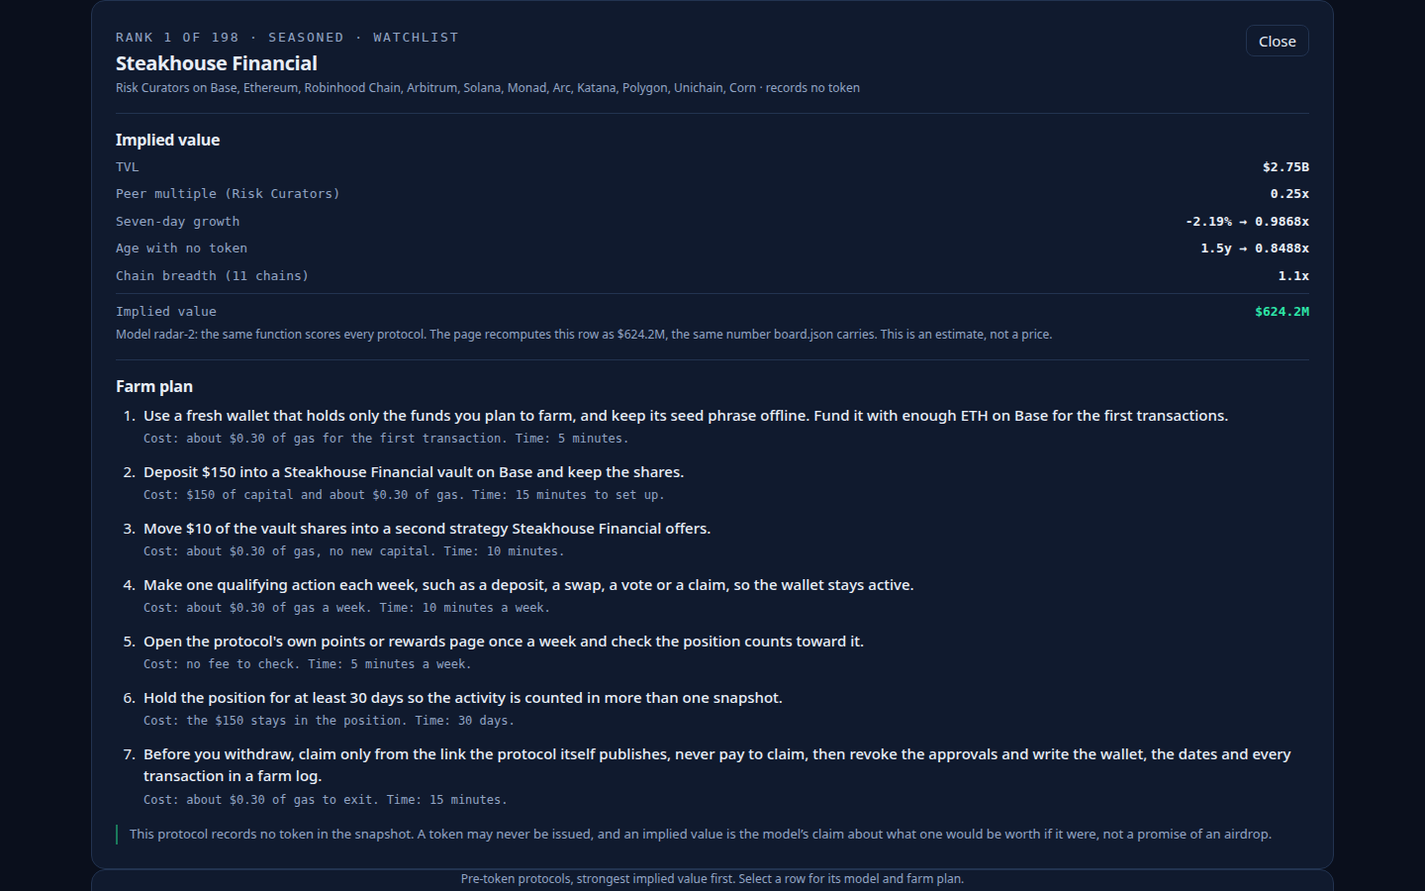
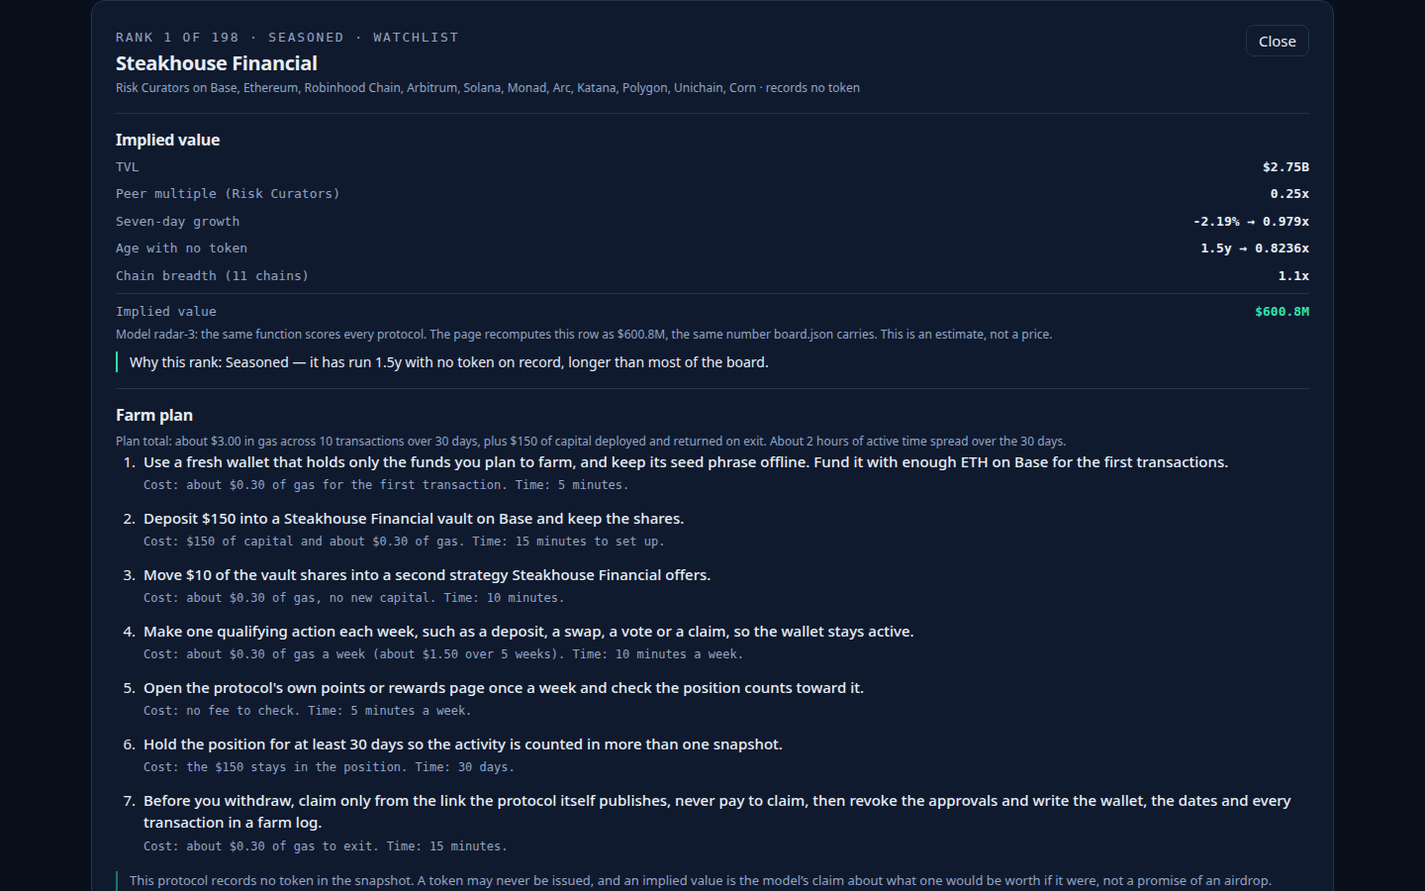
Token radar radar-3: trimmed-and-shrunk peer multiples, dampened growth, smooth age ramp, costed farm plans, why-this-rank notes

Changed region(s): [[0.0625, 0.3733, 0.9062, 0.9956], [0.8438, 0.2178, 0.9062, 0.28]]

diff --git a/lib/model.ts b/lib/model.ts
@@ -1,4 +1,4 @@
-// The token radar's model, radar-2: one snapshot of the protocol universe in, one ranked board out.
+// The token radar's model, radar-3: one snapshot of the protocol universe in, one ranked board out.
 //
 // The board covers every slug in the snapshot's watchlist (the floor, never a ceiling) and every
 // other pre-token protocol the snapshot can rank: the early rows the radar exists to find. A protocol
@@ -8,15 +8,21 @@
 //
 // Implied value follows only from the snapshot's own figures, through four factors:
 //
-//   peer     = the live-token benchmark: the median market-cap-to-TVL ratio of the live protocols in
-//              the same category (at least 3 of them), else the median across all live protocols.
-//              A category whose tokens trade richly against TVL prices its pre-token peers richly;
-//              a category whose tokens trade thinly prices them thinly. Clamped to [0.05, 1.50].
-//   growth   = 1 + clamp(change_7d, -50, 150) / 100 x 0.6, floored at 0.5. A protocol whose TVL is
-//              growing fast is worth more than one whose TVL is shrinking; the clamp keeps one wild
-//              week (the snapshot's fastest grower is up over 4,000%) from deciding the board.
-//   age      = 0.70 + 0.30 x min(age_days, 1095) / 1095, with a 0.85 discount under 90 days old.
-//              A protocol that has run for years with no token on record is closer to a launch than
+//   peer     = the live-token benchmark, made sturdier than a plain median. Each live ratio is
+//              winsorized to [0.001, 5] so one absurd listing (the snapshot's worst is 400x its
+//              TVL) cannot price a category; a category with at least 5 live peers takes a trimmed
+//              median (its smallest and largest ratios dropped); and the result is shrunk toward
+//              the global live median, weight n / (n + 3), so a category with only 3 peers is half
+//              its own median and half the market. A category with fewer than 3 live peers uses
+//              the global median. Clamped to [0.05, 1.50].
+//   growth   = 1 + 0.5 x change_7d / (50 + |change_7d|), floored at 0.5. A dampened curve, not a
+//              clamp: a week of +15% lifts value ~12%, a week of +150% lifts it ~38%, and the
+//              snapshot's fastest grower (+4,444%) can add at most ~50%, so no single wild week
+//              decides the board. A week of -50% costs ~25%.
+//   age      = 0.65 + 0.35 x min(age_days, 1095) / 1095, times a young ramp of 0.80 + 0.20 x
+//              min(age_days, 90) / 90 while under 90 days old: the penalty for a brand-new listing
+//              grows smoothly from 20% at day zero to nothing at day ninety, with no cliff. A
+//              protocol that has run for years with no token on record is closer to a launch than
 //              one listed last month; age_days is null for 113 protocols, which take 365 days.
 //   breadth  = 1 + 0.02 x min(chains, 5). A protocol live on several chains has more surface to farm.
 //
@@ -53,9 +59,12 @@ export interface ModelConstants {
   peer_floor: number;
   peer_cap: number;
   peer_min_n: number;
+  peer_trim_n: number;
+  peer_shrink_k: number;
+  peer_winsor_low: number;
+  peer_winsor_high: number;
   growth_weight: number;
-  growth_floor: number;
-  growth_cap: number;
+  growth_scale: number;
   growth_min_mult: number;
   age_floor: number;
   age_range: number;
@@ -71,22 +80,25 @@ export const MODEL: ModelConstants = {
   peer_floor: 0.05,
   peer_cap: 1.5,
   peer_min_n: 3,
-  growth_weight: 0.6,
-  growth_floor: -50,
-  growth_cap: 150,
+  peer_trim_n: 5,
+  peer_shrink_k: 3,
+  peer_winsor_low: 0.001,
+  peer_winsor_high: 5,
+  growth_weight: 0.5,
+  growth_scale: 50,
   growth_min_mult: 0.5,
-  age_floor: 0.7,
-  age_range: 0.3,
+  age_floor: 0.65,
+  age_range: 0.35,
   age_days: 1095,
   young_days: 90,
-  young_discount: 0.85,
+  young_discount: 0.8,
   unknown_age_days: 365,
   breadth_step: 0.02,
   breadth_max_chains: 5,
 };
 
 /** The model's version label: the dashboard names it and the rules quote it. */
-export const MODEL_VERSION = 'radar-2';
+export const MODEL_VERSION = 'radar-3';
 
 /** How many live-token protocols the Live token view carries, by market cap. */
 export const LIVE_ROWS = 24;
@@ -138,6 +150,7 @@ export interface BoardRow {
     age_days: number | null;
   };
   farm_steps: string[];
+  farm_summary: string;
 }
 
 /** The dashboard's compact view of one row, with farm plans generated in the page. */
@@ -159,6 +172,7 @@ export interface RadarRow {
   breadth_multiplier: number;
   driver: string;
   watchlist: boolean;
+  farm_summary: string;
 }
 
 /** A live-token protocol: it already trades, so the board shows the market's own value, not a model's. */
@@ -225,19 +239,29 @@ function median(sorted: number[]): number {
 const round4 = (n: number): number => Math.round(n * 1e4) / 1e4;
 
 /**
- * The live-token benchmark: per category, the median market-cap-to-TVL ratio of that category's
- * live protocols (at least peer_min_n of them), else the median across all live protocols. Both are
- * clamped to [peer_floor, peer_cap], so one outlier category never prices the board. The table holds
- * only the categories with enough live peers, by category name.
+ * The live-token benchmark: per category, a trimmed median of the live protocols' market-cap-to-TVL
+ * ratios, shrunk toward the global live median. Each ratio is winsorized to [peer_winsor_low,
+ * peer_winsor_high] so one absurd listing cannot price a category; with at least peer_trim_n peers
+ * the smallest and largest ratios are dropped before the median; and the result is weighted
+ * n / (n + peer_shrink_k) against the global median, so a category with only a few live peers is
+ * mostly the market, not its own thin sample. A category with fewer than peer_min_n live peers uses
+ * the global median. All multiples are clamped to [peer_floor, peer_cap]. The table holds only the
+ * categories with enough live peers, by category name.
  */
 export function peerMultiples(snapshot: Snapshot, model: ModelConstants = MODEL): PeerMultiples {
   const live = snapshot.protocols.filter((p) => !isPreToken(p) && p.category !== 'CEX');
+  const winsor = (r: number): number => Math.min(model.peer_winsor_high, Math.max(model.peer_winsor_low, r));
   const ratios = (ps: SnapshotProtocol[]): number[] =>
     ps
       .map((p) => (p.mcap_usd !== null && p.tvl_usd > 0 ? p.mcap_usd / p.tvl_usd : NaN))
       .filter((r) => Number.isFinite(r) && r > 0)
+      .map(winsor)
       .sort((a, b) => a - b);
   const clamp = (v: number): number => Math.min(model.peer_cap, Math.max(model.peer_floor, v));
+  const trimmedMedian = (rs: number[]): number => {
+    if (rs.length >= model.peer_trim_n) return median(rs.slice(1, -1));
+    return median(rs);
+  };
   const all = ratios(live);
   const global = all.length > 0 ? clamp(median(all)) : 0.25;
   const byCategory = new Map<string, number>();
@@ -246,7 +270,8 @@ export function peerMultiples(snapshot: Snapshot, model: ModelConstants = MODEL)
   for (const c of cats) {
     const rs = ratios(live.filter((p) => (p.category ?? 'Other') === c));
     if (rs.length >= model.peer_min_n) {
-      const m = clamp(median(rs));
+      const w = rs.length / (rs.length + model.peer_shrink_k);
+      const m = clamp(w * trimmedMedian(rs) + (1 - w) * global);
       byCategory.set(c, m);
       table.push({ category: c, n: rs.length, multiple: round4(m) });
     }
@@ -266,11 +291,20 @@ export function impliedValue(
   // dashboard stores is exactly the value the model used: the page's recompute must match.
   const peer = round4(multiples.byCategory.get(protocol.category ?? 'Other') ?? multiples.global);
   const rawGrowth = finite(protocol.change_7d, 0);
-  const growthPct = Math.min(model.growth_cap, Math.max(model.growth_floor, rawGrowth));
-  const growthMult = Math.max(model.growth_min_mult, 1 + (growthPct / 100) * model.growth_weight);
+  // A dampened curve, not a clamp: growth approaches 1 + growth_weight as the week goes to
+  // infinity, so a +4,444% week can add at most ~50% and a -50% week costs ~25%.
+  const growthPct = Math.round(rawGrowth * 100) / 100;
+  const growthMult = Math.max(
+    model.growth_min_mult,
+    1 + model.growth_weight * (rawGrowth / (model.growth_scale + Math.abs(rawGrowth))),
+  );
   const ageForModel = age ?? model.unknown_age_days;
   let ageMult = model.age_floor + (Math.min(Math.max(ageForModel, 0), model.age_days) / model.age_days) * model.age_range;
-  if (age !== null && age < model.young_days) ageMult *= model.young_discount;
+  // The young ramp, not a cliff: a listing's age factor is cut by up to 20% on day zero and the
+  // cut fades linearly to nothing at young_days, so day 89 and day 90 score almost alike.
+  if (age !== null && age < model.young_days) {
+    ageMult *= model.young_discount + (1 - model.young_discount) * (age / model.young_days);
+  }
   const breadthMult = 1 + model.breadth_step * Math.min(protocol.chains.length, model.breadth_max_chains);
   const implied = Math.max(1, Math.round(protocol.tvl_usd * peer * growthMult * ageMult * breadthMult));
   return { implied, peer, growthPct, growthMult, ageMult, breadthMult, age };
@@ -375,6 +409,7 @@ export function buildBoard(snapshot: Snapshot, model: ModelConstants = MODEL): B
       age_days: s.age,
     },
     farm_steps: farmSteps(s.p, s.age).map(stepText),
+    farm_summary: farmSummary(s.p, s.age),
   }));
 }
 
@@ -416,6 +451,23 @@ function gasCost(chain: string): string {
   ]);
   if (cheap.has(chain)) return 'about $0.30 of gas';
   return 'about $1 of gas';
+}
+
+/** What one transaction costs on a chain, in whole US dollars: mainnet is dear, rollups are cheap, Solana is cheapest. */
+function gasUsd(chain: string): number {
+  if (chain === 'Ethereum') return 6;
+  if (chain === 'Solana') return 0.05;
+  const cheap = new Set([
+    'Base', 'Arbitrum', 'Optimism', 'zkSync Era', 'Linea', 'Scroll', 'Blast', 'Mantle', 'Mode',
+    'Unichain', 'Ink', 'Soneium', 'Abstract', 'Zora', 'Polygon zkEVM', 'MegaETH',
+  ]);
+  if (cheap.has(chain)) return 0.3;
+  return 1;
+}
+
+/** A dollar amount in the plan's own words: cents below $10, whole dollars above. */
+function money(n: number): string {
+  return n < 10 ? `$${n.toFixed(2)}` : `$${Math.round(n)}`;
 }
 
 /** How much capital one farm position needs, from the protocol's own TVL. */
@@ -486,14 +538,17 @@ function secondActionFor(p: SnapshotProtocol, capital: number, chain: string): s
  * A protocol's farm plan: seven steps, each an action with a cost and a time. The plan is derived
  * from the protocol's own record (category, chains, TVL, age), never from a hand-written list of
  * names: the gas token and the gas price follow its first chain, the capital follows its TVL, the
- * hold follows its age, and both actions follow its category.
+ * hold follows its age, and both actions follow its category. The weekly step states what the
+ * whole hold costs in gas, not just one week of it.
  */
 export function farmSteps(p: SnapshotProtocol, age: number | null): FarmStep[] {
   const chain = chainOf(p);
   const token = gasToken(chain);
   const gas = gasCost(chain);
+  const gasN = gasUsd(chain);
   const capital = capitalFor(p);
   const hold = holdDaysFor(age);
+  const weeks = Math.ceil(hold / 7);
   return [
     {
       text: `Use a fresh wallet that holds only the funds you plan to farm, and keep its seed phrase offline. Fund it with enough ${token} on ${chain} for the first transactions.`,
@@ -512,7 +567,7 @@ export function farmSteps(p: SnapshotProtocol, age: number | null): FarmStep[] {
     },
     {
       text: `Make one qualifying action each week, such as a deposit, a swap, a vote or a claim, so the wallet stays active.`,
-      cost: `${gas} a week`,
+      cost: `${gas} a week (about ${money(weeks * gasN)} over ${weeks} weeks)`,
       time: '10 minutes a week',
     },
     {
@@ -531,6 +586,27 @@ export function farmSteps(p: SnapshotProtocol, age: number | null): FarmStep[] {
       time: '15 minutes',
     },
   ];
+}
+
+/**
+ * The plan's totals, in one line: the gas for every transaction the plan makes (one to fund, one
+ * for each of the two actions, one a week through the hold, two to claim and revoke on exit), the
+ * capital deployed and returned on exit, and the active time spread over the hold. The capital is
+ * never spent, only parked: the cost is the gas.
+ */
+export function farmSummary(p: SnapshotProtocol, age: number | null): string {
+  const gasN = gasUsd(chainOf(p));
+  const capital = capitalFor(p);
+  const hold = holdDaysFor(age);
+  const weeks = Math.ceil(hold / 7);
+  const txs = 5 + weeks;
+  const totalGas = txs * gasN;
+  const activeMinutes = 45 + weeks * 15;
+  const active =
+    activeMinutes >= 60
+      ? `about ${(Math.round((activeMinutes / 60) * 2) / 2).toString().replace(/\.0$/, '')} hours of active time`
+      : `about ${activeMinutes} minutes of active time`;
+  return `Plan total: about ${money(totalGas)} in gas across ${txs} transactions over ${hold} days, plus $${capital} of capital deployed and returned on exit. ${active.charAt(0).toUpperCase() + active.slice(1)} spread over the ${hold} days.`;
 }
 
 /** The live-token protocols, by market cap, for the dashboard's Live token view. */
@@ -571,6 +647,7 @@ export function radarRow(row: BoardRow, watchlist: Set<string>): RadarRow {
     breadth_multiplier: row.model.breadth_multiplier,
     driver: row.driver,
     watchlist: watchlist.has(row.slug),
+    farm_summary: row.farm_summary,
   };
 }
 

diff --git a/dashboard/app.js b/dashboard/app.js
@@ -1,7 +1,7 @@
-// Token Radar's dashboard, radar-2. It reads window.RADAR (written beside dashboard/ by
+// Token Radar's dashboard, radar-3. It reads window.RADAR (written beside dashboard/ by
 // main.ts) and renders the ranked board, the top signals, a filterable table, an inline detail
-// panel with the model's own inputs and the protocol's farm plan, and the model itself. No
-// network: every byte it shows is in data.js.
+// panel with the model's own inputs, why the row ranks where it does, and the protocol's farm plan,
+// and the model itself. No network: every byte it shows is in data.js.
 (function () {
   'use strict';
 
@@ -34,14 +34,34 @@
   // The model in one function, mirroring lib/model.ts exactly: the page recomputes a row from the
   // snapshot figures and checks the number board.json carries, so the page's code and the board's
   // data are visibly the same arithmetic. Peer multiple is the row's own, priced from live peers.
+  // Growth is the dampened curve: a wild week adds at most half the value. Age carries a young
+  // ramp, not a cliff: the cut fades linearly from 20% at day zero to nothing at ninety days.
   function impliedOf(row, model) {
-    var growth = Math.min(model.growth_cap, Math.max(model.growth_floor, row.change_7d === null || row.change_7d === undefined ? 0 : row.change_7d));
-    var growthMult = Math.max(model.growth_min_mult, 1 + (growth / 100) * model.growth_weight);
+    var g = row.change_7d === null || row.change_7d === undefined ? 0 : row.change_7d;
+    var growthMult = Math.max(model.growth_min_mult, 1 + model.growth_weight * (g / (model.growth_scale + Math.abs(g))));
     var age = row.age_days === null || row.age_days === undefined ? model.unknown_age_days : row.age_days;
     var ageMult = model.age_floor + (Math.min(Math.max(age, 0), model.age_days) / model.age_days) * model.age_range;
-    if (row.age_days !== null && row.age_days !== undefined && row.age_days < model.young_days) ageMult *= model.young_discount;
+    if (row.age_days !== null && row.age_days !== undefined && row.age_days < model.young_days) {
+      ageMult *= model.young_discount + (1 - model.young_discount) * (row.age_days / model.young_days);
+    }
     var breadth = 1 + model.breadth_step * Math.min((row.chains || []).length, model.breadth_max_chains);
     return Math.max(1, Math.round(row.tvl_usd * row.peer_multiple * growthMult * ageMult * breadth));
+  }
+
+  // Why the row ranks where it does: the factor that lifts it furthest above the model's floor,
+  // named and quantified, so the rank is explained, not just asserted.
+  function whyNote(row) {
+    var m = DATA.model;
+    var peerLift = row.peer_multiple / DATA.global_multiple - 1;
+    var growthLift = row.growth_multiplier - 1;
+    var ageLift = row.age_multiplier - m.age_floor;
+    var breadthLift = row.breadth_multiplier - 1;
+    var best = Math.max(peerLift, growthLift, ageLift, breadthLift);
+    if (best <= 0.02) return 'Scale — no single factor lifts this row: its TVL of ' + fmtUsd(row.tvl_usd) + ' is what puts it here.';
+    if (best === peerLift) return 'Rich peers — live protocols in ' + (row.category || 'Other') + ' trade at ' + fmtMult(row.peer_multiple) + ' of TVL, ' + (row.peer_multiple / DATA.global_multiple).toFixed(1) + 'x the live median of ' + fmtMult(DATA.global_multiple) + '.';
+    if (best === growthLift) return 'Momentum — its TVL moved ' + fmtPct(row.change_7d) + ' in seven days, the strongest lift on this row.';
+    if (best === ageLift) return 'Seasoned — it has run ' + fmtAge(row.age_days) + ' with no token on record, longer than most of the board.';
+    return 'Multi-chain — it is live on ' + (row.chains || []).length + ' chains, more surface to farm than a single-chain protocol.';
   }
 
   function el(tag, attrs) {
@@ -141,17 +161,28 @@
     if (s.length < 20) s = s + " Hold the position and check the protocol's own page.";
     return s;
   }
+  function gasUsd(chain) {
+    if (chain === 'Ethereum') return 6;
+    if (chain === 'Solana') return 0.05;
+    var cheap = ['Base', 'Arbitrum', 'Optimism', 'zkSync Era', 'Linea', 'Scroll', 'Blast', 'Mantle', 'Mode', 'Unichain', 'Ink', 'Soneium', 'Abstract', 'Zora', 'Polygon zkEVM', 'MegaETH'];
+    if (cheap.indexOf(chain) >= 0) return 0.3;
+    return 1;
+  }
+  function money(n) {
+    return n < 10 ? '$' + n.toFixed(2) : '$' + Math.round(n);
+  }
   function farmSteps(p) {
     var chain = chainOf(p);
     var token = gasToken(chain);
     var gas = gasCost(chain);
     var capital = capitalFor(p);
     var hold = holdDaysFor(p.age_days);
+    var weeks = Math.ceil(hold / 7);
     return [
       { text: 'Use a fresh wallet that holds only the funds you plan to farm, and keep its seed phrase offline. Fund it with enough ' + token + ' on ' + chain + ' for the first transactions.', cost: gas + ' for the first transaction', time: '5 minutes' },
       { text: actionFor(p, capital, chain), cost: '$' + capital + ' of capital and ' + gas, time: '15 minutes to set up' },
       { text: secondActionFor(p, capital, chain), cost: gas + ', no new capital', time: '10 minutes' },
-      { text: 'Make one qualifying action each week, such as a deposit, a swap, a vote or a claim, so the wallet stays active.', cost: gas + ' a week', time: '10 minutes a week' },
+      { text: 'Make one qualifying action each week, such as a deposit, a swap, a vote or a claim, so the wallet stays active.', cost: gas + ' a week (about ' + money(weeks * gasUsd(chain)) + ' over ' + weeks + ' weeks)', time: '10 minutes a week' },
       { text: "Open the protocol's own points or rewards page once a week and check the position counts toward it.", cost: 'no fee to check', time: '5 minutes a week' },
       { text: 'Hold the position for at least ' + hold + ' days so the activity is counted in more than one snapshot.', cost: 'the $' + capital + ' stays in the position', time: hold + ' days' },
       { text: 'Before you withdraw, claim only from the link the protocol itself publishes, never pay to claim, then revoke the approvals and write the wallet, the dates and every transaction in a farm log.', cost: gas + ' to exit', time: '15 minutes' }
@@ -375,11 +406,12 @@
     var multRows = DATA.category_multiples.slice().sort(function (a, b) { return b.multiple - a.multiple || (a.category < b.category ? -1 : 1); });
     return el('section', { class: 'panel model' },
       el('h2', { text: 'How implied value is computed' }),
-      el('p', { class: 'sub', text: 'Every row is scored by one function of the snapshot figures. The peer multiple is the median market-cap-to-TVL ratio of the live protocols in the same category (at least ' + m.peer_min_n + ' of them), else the global live median of ' + fmtMult(DATA.global_multiple) + '. No protocol name is special-cased, and no row is hand-picked.' }),
+      el('p', { class: 'sub', text: 'Every row is scored by one function of the snapshot figures. The peer multiple is a trimmed median of the live protocols in the same category (at least ' + m.peer_min_n + ' of them), winsorized so one absurd listing cannot price a category, and shrunk toward the global live median of ' + fmtMult(DATA.global_multiple) + ' by how few peers the category has: a thin category is mostly the market, not its own sample. No protocol name is special-cased, and no row is hand-picked.' }),
       el('div', { class: 'formula' },
-        'implied = round( tvl_usd x peer x max(' + m.growth_min_mult + ', 1 + clamp(change_7d, ' + m.growth_floor + ', ' + m.growth_cap + ') / 100 x ' + m.growth_weight + ') x (' + m.age_floor + ' + min(age_days, ' + m.age_days + ') / ' + m.age_days + ' x ' + m.age_range + ') x (1 + ' + m.breadth_step + ' x min(chains, ' + m.breadth_max_chains + ')) )'
+        'implied = round( tvl_usd x peer x max(' + m.growth_min_mult + ', 1 + ' + m.growth_weight + ' x change_7d / (' + m.growth_scale + ' + |change_7d|)) x (' + m.age_floor + ' + min(age_days, ' + m.age_days + ') / ' + m.age_days + ' x ' + m.age_range + ') x young-ramp x (1 + ' + m.breadth_step + ' x min(chains, ' + m.breadth_max_chains + ')) )'
       ),
-      el('p', { class: 'sub', text: 'Age is the time since the protocol was first listed, the best record of how long it has run with no token on record; under ' + m.young_days + ' days old the age factor is cut by ' + m.young_discount + ', and an unlisted age uses ' + m.unknown_age_days + ' days. Peer multiples are clamped to [' + m.peer_floor + ', ' + m.peer_cap + ']. The board never ranks a bridge, a wrapped or staked product of a token that already trades, an exchange, or a versioned pool: those are not protocols waiting for a launch of their own.' }),
+      el('p', { class: 'sub', text: 'young-ramp = ' + m.young_discount + ' + ' + (1 - m.young_discount).toFixed(2) + ' x min(age_days, ' + m.young_days + ') / ' + m.young_days + ' while age_days < ' + m.young_days + ', else 1.' }),
+      el('p', { class: 'sub', text: 'Growth is a dampened curve, not a clamp: a week of +15% lifts value about 12%, a week of +150% lifts it about 38%, and the snapshot’s fastest grower (+4,448% in a week) can add at most about 50%. Age is the time since the protocol was first listed, the best record of how long it has run with no token on record; under ' + m.young_days + ' days old the age factor fades in from a ' + Math.round((1 - m.young_discount) * 100) + '% cut at day zero, with no cliff, and an unlisted age uses ' + m.unknown_age_days + ' days. Peer multiples are clamped to [' + m.peer_floor + ', ' + m.peer_cap + ']. The board never ranks a bridge, a wrapped or staked product of a token that already trades, an exchange, or a versioned pool: those are not protocols waiting for a launch of their own.' }),
       el('div', { class: 'table-wrap' },
         el('table', { class: 'mult-table' },
           el('caption', { class: 'sub', text: 'Peer multiples by category, from the live protocols in the snapshot.' }),
@@ -417,10 +449,12 @@
           el('div', null, el('span', { text: 'Chain breadth (' + (row.chains || []).length + ' chains)' }), el('b', { class: 'num', text: row.breadth_multiplier + 'x' })),
           el('div', { class: 'total' }, el('span', { text: 'Implied value' }), el('b', { class: 'num', text: fmtUsd(row.implied_value_usd) }))
         ),
-        el('p', { class: 'sub', text: 'Model ' + DATA.model_version + ': the same function scores every protocol. The page recomputes this row as ' + fmtUsd(recomputed) + (match ? ', the same number board.json carries.' : ', which differs from the board: the data would be stale.') + ' This is an estimate, not a price.' })
+        el('p', { class: 'sub', text: 'Model ' + DATA.model_version + ': the same function scores every protocol. The page recomputes this row as ' + fmtUsd(recomputed) + (match ? ', the same number board.json carries.' : ', which differs from the board: the data would be stale.') + ' This is an estimate, not a price.' }),
+        el('p', { class: 'why', text: 'Why this rank: ' + whyNote(row) })
       ),
       el('div', { class: 'detail-section' },
         el('h3', { text: 'Farm plan' }),
+        el('p', { class: 'sub', text: row.farm_summary || '' }),
         el('ol', { class: 'steps' }, steps.map(function (s) {
           var at = s.indexOf(' Cost: ');
           var action = at >= 0 ? s.slice(0, at) : s;

diff --git a/dashboard/app.css b/dashboard/app.css
@@ -121,6 +121,7 @@ tbody tr[data-selected="true"] { background: var(--panel); box-shadow: inset 3px
 .steps b { display: block; font-weight: 500; }
 .cost { color: var(--muted); font-size: 12px; font-family: var(--font-num); }
 .note { color: var(--muted); font-size: 13px; border-left: 2px solid var(--accent-dim); padding-left: var(--s3); }
+.why { color: var(--ink); font-size: 14px; border-left: 2px solid var(--accent); padding-left: var(--s3); margin-top: var(--s2); }
 
 .model { margin-top: var(--s4); padding: var(--s5); display: grid; gap: var(--s3); }
 .formula { font-family: var(--font-num); font-size: 13px; line-height: 1.7; color: var(--muted); overflow-wrap: anywhere; background: var(--canvas); border: 1px solid var(--border); border-radius: var(--radius-control); padding: var(--s3); }

diff --git a/main.ts b/main.ts
@@ -1,4 +1,4 @@
-// A working token-radar-01 entry (Node 22, standard library only), model radar-2.
+// A working token-radar-01 entry (Node 22, standard library only), model radar-3.
 //
 // The program reads the sealed snapshot from /input/snapshot.json (or --input <file|dir>),
 // scores every pre-token protocol with the model in lib/model.ts — implied value priced from the
